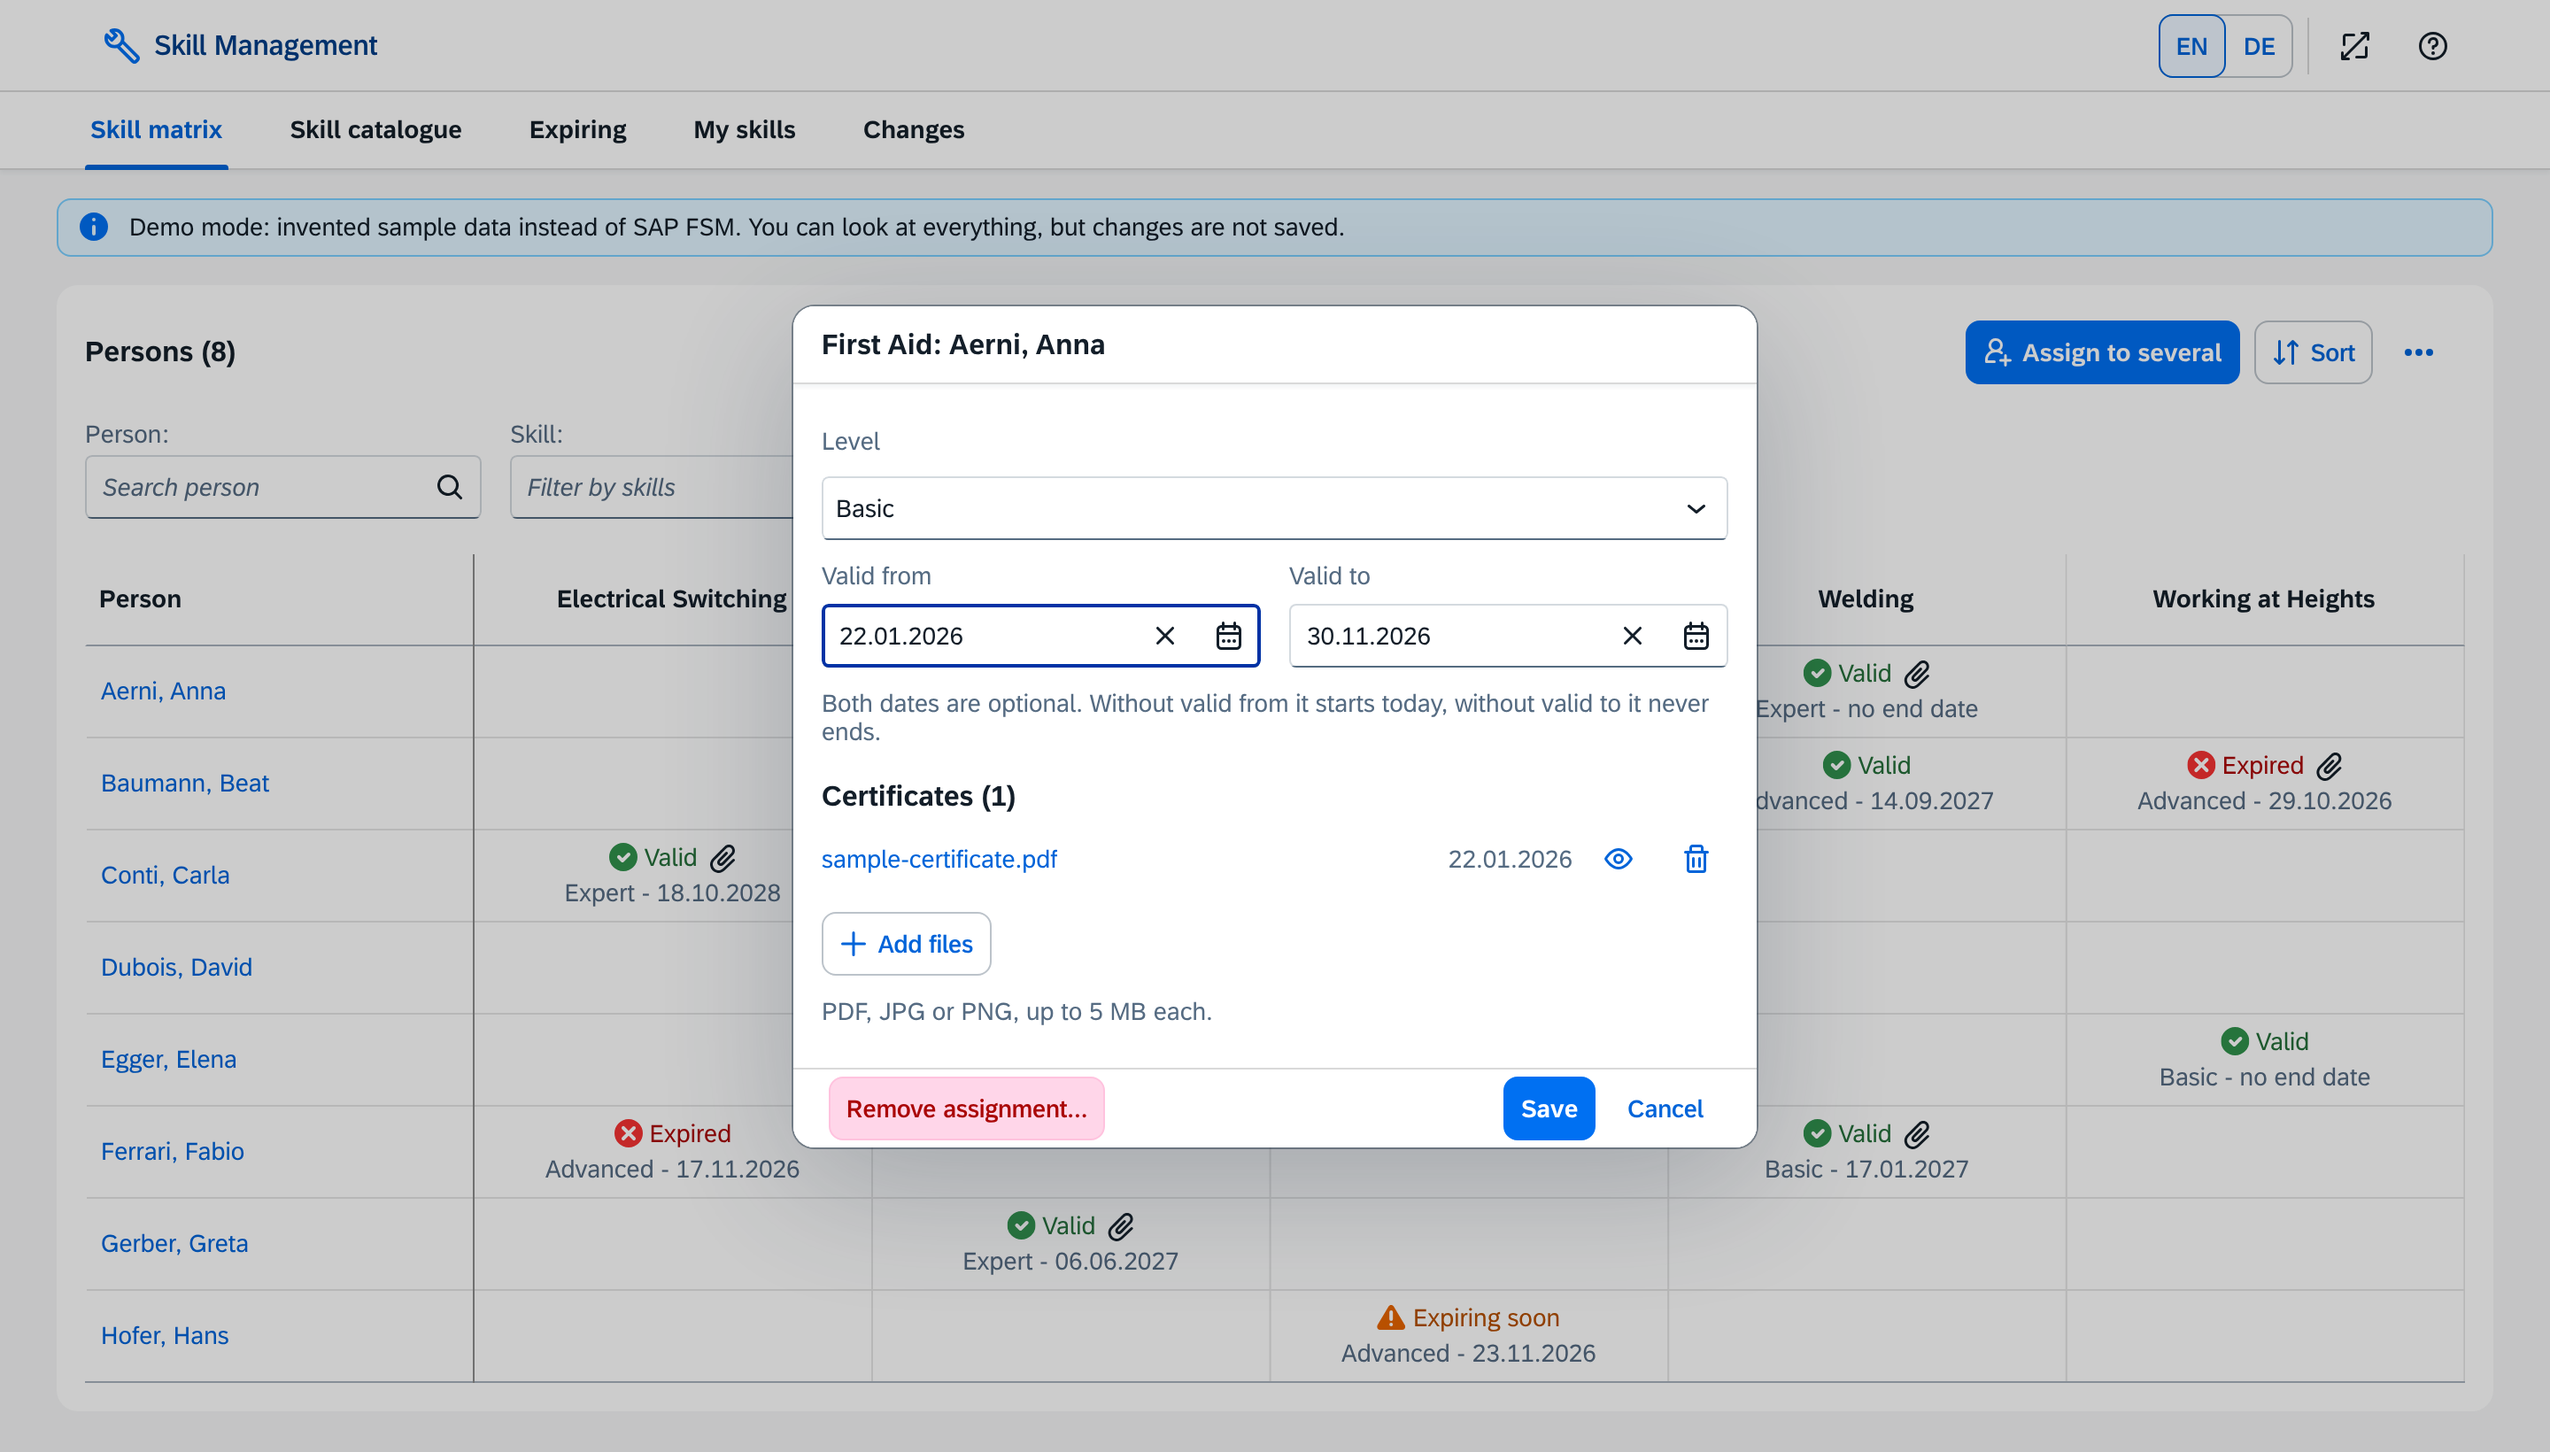
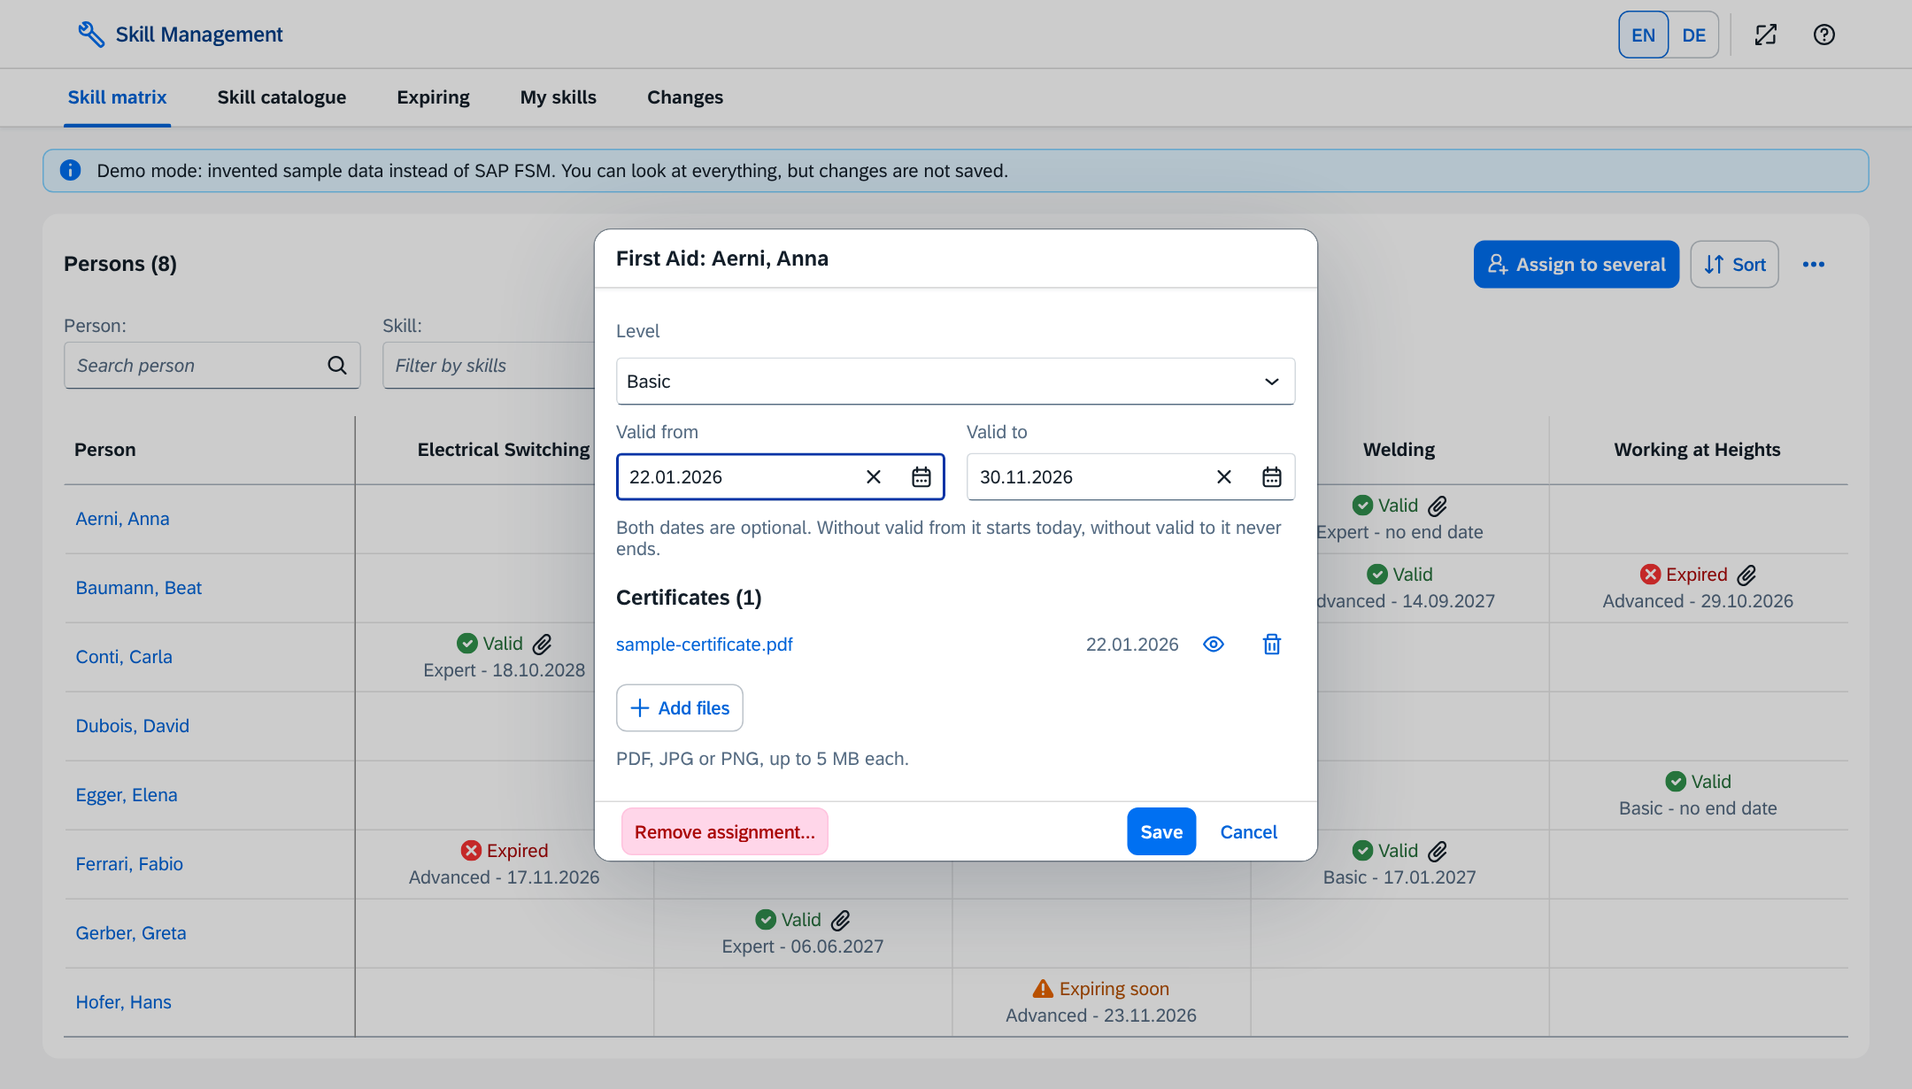
README: a tour of the app with screenshots (#19)

diff --git a/README.md b/README.md
@@ -8,9 +8,69 @@ A hosted copy runs on Vercel. The link and the access code are in my email.
 
 I hope you like it.
 
-![The skill matrix: persons as rows, skills as columns, each cell with status, level, end date and a clip when a certificate is attached](docs/images/matrix.png)
+## A quick tour
 
 The screenshots show the demo mode, which runs on invented data.
+
+### The matrix
+
+One page for everyone and everything. Green is fine, orange needs a look, red is too late. The clip says there is a certificate behind it.
+
+![The skill matrix: persons as rows, skills as columns, each cell with status, level and end date](docs/images/matrix.png)
+
+### One dialog for an assignment
+
+Click a cell. Level, dates and certificates are in one place, and nothing is saved until you press Save.
+
+![The dialog of one assignment with level, valid from, valid to and its certificates](docs/images/assignment.png)
+
+### Certificates you can look at
+
+PDFs and images open right in the app. No download, no searching through folders.
+
+![A certificate shown inside the app](docs/images/certificate.png)
+
+### Everything about one person
+
+Click a name and you see what that technician holds, with level, status and certificates.
+
+![All skills of one person in a dialog](docs/images/person.png)
+
+### One skill for the whole crew
+
+After a training day: one skill, several persons, one request. Same dates for all, or dates per person.
+
+![The dialog that assigns one skill to several persons](docs/images/several.png)
+
+### The catalogue
+
+Create, rename, delete. The number shows how many people hold a skill, and a click on the name shows who.
+
+![The skill catalogue with the number of assignments per skill](docs/images/catalog.png)
+
+### What runs out soon
+
+The page I would open every Monday. Soonest first, for the next 30 to 180 days, or what has already expired.
+
+![The list of assignments that end soon](docs/images/expiring.png)
+
+### My skills
+
+For the technicians themselves. Pick your name once and see what you hold. Read-only.
+
+![The read-only view of one technician](docs/images/my-skills.png)
+
+### Import from a spreadsheet
+
+Most teams already keep this list in Excel. Every row is checked and says why it cannot come in, before anything is saved.
+
+![The import preview: two rows ready, four rows with the reason why not](docs/images/import.png)
+
+### Auch auf Deutsch
+
+One click and the whole app speaks German, in Swiss spelling.
+
+![The matrix in German](docs/images/german.png)
 
 ## What is in it
 
@@ -26,10 +86,6 @@ I also added a few things that I thought a real service manager would ask for ne
 - a read-only MCP server, so an AI assistant can query the matrix.
 
 Further down I say what I would leave out if I started again.
-
-| Assigning and certificates | What expires soon |
-|---|---|
-| ![The dialog of one assignment: level, valid from, valid to and the list of certificates](docs/images/assignment.png) | ![The list of assignments that end within the next 30 days, soonest first](docs/images/expiring.png) |
 
 ## Running it
 
